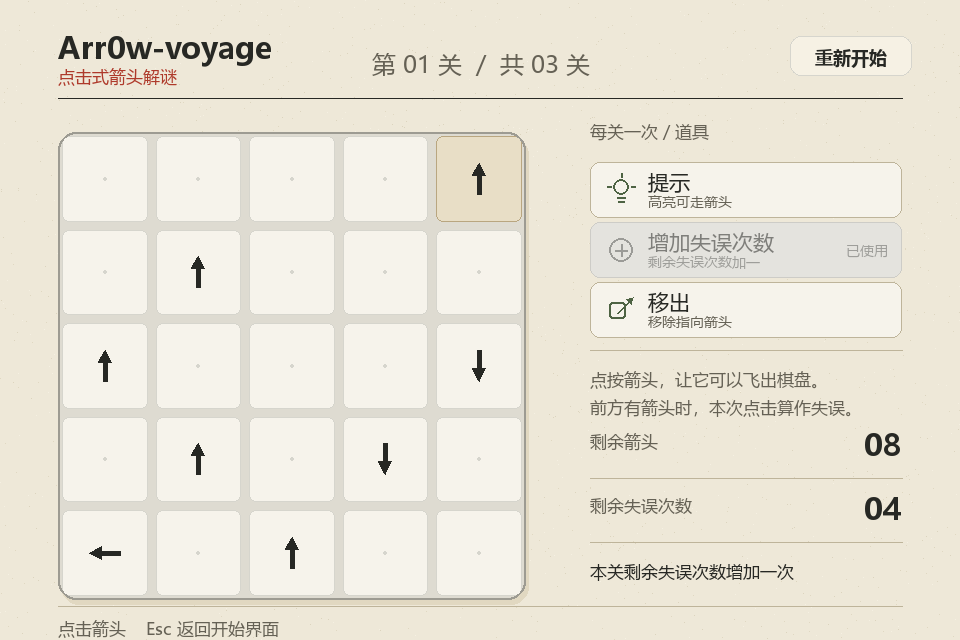
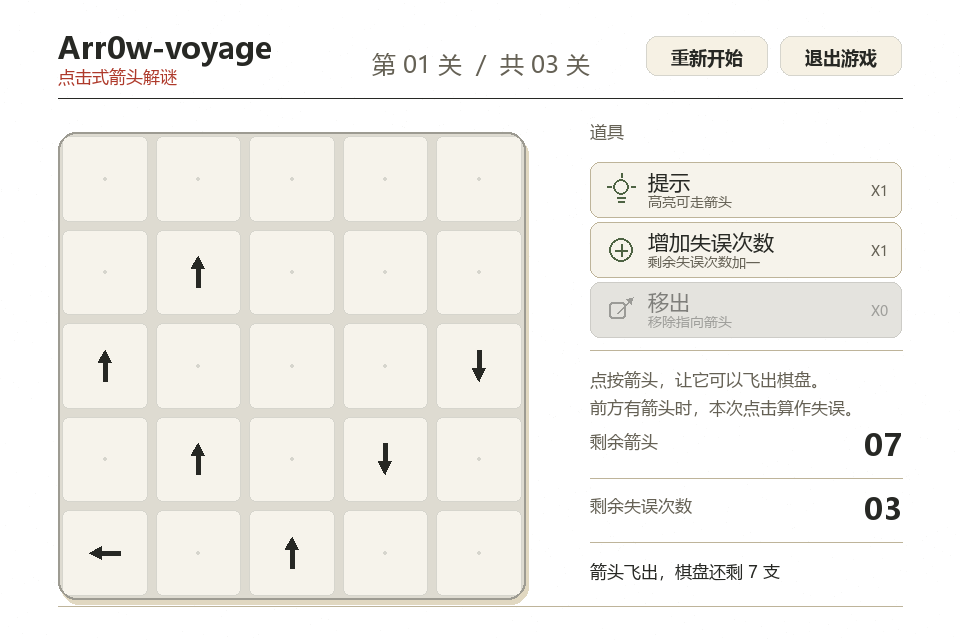
优化完善界面

diff --git a/game.py b/game.py
@@ -78,6 +78,7 @@ class Game:
         self.title_font = load_font(70, bold=True)
         self.heading_font = load_font(30, bold=True)
         self.subtitle_font = load_font(24)
+        self.start_subtitle_font = load_font(36, bold=True)
         self.body_font = load_font(21)
         self.small_font = load_font(17)
         self.tiny_font = load_font(14)
@@ -86,8 +87,19 @@ class Game:
 
         self.start_button = Button(pygame.Rect(112, 450, 210, 58), "开始游戏")
         self.restart_button = Button(
-            pygame.Rect(790, 36, 122, 40),
+            pygame.Rect(646, 36, 122, 40),
             "重新开始",
+            radius=11,
+            normal_fill=PAPER_LIGHT,
+            hover_fill=PAPER_HOVER,
+            normal_text=INK,
+            hover_text=INK,
+            border_color=CELL_BORDER,
+            border_width=1,
+        )
+        self.exit_button = Button(
+            pygame.Rect(780, 36, 122, 40),
+            "退出游戏",
             radius=11,
             normal_fill=PAPER_LIGHT,
             hover_fill=PAPER_HOVER,
@@ -111,6 +123,7 @@ class Game:
         self.feedback_timer = 0.0
         self.hint_cell: tuple[int, int] | None = None
         self.hint_timer = 0.0
+        self.pending_tool: str | None = None
         self.round_finished = False
         self.message = "点击没有被挡住的箭头"
         self.tool_uses = {key: 1 for key in TOOL_KEYS}
@@ -150,6 +163,10 @@ class Game:
 
         if self.restart_button.contains(position):
             self.restart_level()
+            return
+
+        if self.exit_button.contains(position):
+            self.running = False
             return
 
         tool = self._tool_at(position)
@@ -196,6 +213,7 @@ class Game:
         self.feedback_timer = 0.0
         self.hint_cell = None
         self.hint_timer = 0.0
+        self.pending_tool: str | None = None
         self.round_finished = False
         self.message = "点击没有被挡住的箭头"
         self.tool_uses = {key: 1 for key in TOOL_KEYS}
@@ -205,6 +223,12 @@ class Game:
         """处理一次箭头点击，暂以即时消除配合颜色反馈。"""
         direction = self.board[row][col]
         if direction is None or self.round_finished:
+            return
+
+        if self.pending_tool == "remove":
+            self.pending_tool = None
+            self.tool_uses["remove"] = 0
+            self._remove_arrow(row, col)
             return
 
         if can_fly_out(self.board, row, col):
@@ -227,6 +251,7 @@ class Game:
             return
 
         self.board[row][col] = None
+        self.pending_tool = None
         self.feedback_cell = None
         self.hint_cell = None
         remaining = count_remaining_arrows(self.board)
@@ -247,6 +272,9 @@ class Game:
         if self.round_finished:
             self.message = "本关已结束，请重新开始"
             return
+
+        if tool != "remove" and self.pending_tool is not None:
+            self.pending_tool = None
 
         if self.tool_uses[tool] <= 0:
             self.message = "这个道具本关已经用过了"
@@ -277,17 +305,8 @@ class Game:
         self.message = "本关剩余失误次数增加一次"
 
     def _use_remove(self) -> None:
-        if self.hovered_cell is None:
-            self.message = "先把鼠标移到要移出的箭头上"
-            return
-
-        row, col = self.hovered_cell
-        if self.board[row][col] is None:
-            self.message = "请把鼠标移到箭头上"
-            return
-
-        self.tool_uses["remove"] = 0
-        self._remove_arrow(row, col)
+        self.pending_tool = "remove"
+        self.message = "请点击要移出的箭头"
 
     def _cell_at(self, position: tuple[int, int]) -> tuple[int, int] | None:
         if not BOARD_RECT.collidepoint(position):
@@ -329,11 +348,11 @@ class Game:
         pygame.draw.line(self.screen, ACCENT, (84, 82), (84, 544), 3)
         pygame.draw.circle(self.screen, ACCENT, (84, 82), 5)
 
-        title = self.title_font.render("一箭又一箭", True, INK)
-        self.screen.blit(title, (116, 88))
+        title = self.title_font.render("Arr0w-voyage", True, INK)
+        self.screen.blit(title, (116, 68))
 
-        subtitle = self.subtitle_font.render("点击式箭头解谜", True, ACCENT)
-        self.screen.blit(subtitle, (120, 174))
+        subtitle = self.start_subtitle_font.render("一箭又一箭", True, ACCENT)
+        self.screen.blit(subtitle, (120, 160))
 
         line = self.body_font.render(
             "观察箭头方向，找到一条通向棋盘外的路。", True, INK_SOFT
@@ -351,9 +370,6 @@ class Game:
 
         mouse_position = pygame.mouse.get_pos()
         self.start_button.draw(self.screen, self.button_font, mouse_position)
-
-        footer = self.small_font.render("鼠标点击开始    Esc 退出", True, INK_SOFT)
-        self.screen.blit(footer, (120, 548))
 
         self._draw_sample_board()
 
@@ -420,7 +436,9 @@ class Game:
         self.restart_button.draw(
             self.screen, self.small_button_font, mouse_position
         )
-
+        self.exit_button.draw(
+            self.screen, self.small_button_font, mouse_position
+        )
         pygame.draw.line(
             self.screen, INK, (58, HEADER_RULE_Y), (902, HEADER_RULE_Y), 1
         )
@@ -431,10 +449,6 @@ class Game:
         self._draw_board()
         self._draw_sidebar()
 
-        footer = self.small_font.render(
-            "点击箭头    Esc 返回开始界面", True, INK_SOFT
-        )
-        self.screen.blit(footer, (58, 617))
 
     def _draw_board(self) -> None:
         pygame.draw.rect(
@@ -463,6 +477,10 @@ class Game:
                 if direction is not None and self.hovered_cell == (row, col):
                     fill_color = PAPER_HOVER
                     border_color = CELL_HOVER_BORDER
+
+                if direction is not None and self.pending_tool == "remove":
+                    fill_color = CELL_HINT
+                    border_color = MOSS
 
                 if direction is not None and self.hint_cell == (row, col):
                     fill_color = CELL_HINT
@@ -516,7 +534,7 @@ class Game:
 
     def _draw_sidebar(self) -> None:
         left = 590
-        tools_title = self.small_font.render("每关一次 / 道具", True, INK_SOFT)
+        tools_title = self.small_font.render("道具", True, INK_SOFT)
         self.screen.blit(tools_title, (left, 120))
 
         mouse_position = pygame.mouse.get_pos()
@@ -592,12 +610,12 @@ class Game:
         )
         self.screen.blit(description, description_rect)
 
-        if used:
-            status = self.tiny_font.render("已使用", True, description_color)
-            status_rect = status.get_rect(
-                midright=(rect.right - 14, rect.centery)
-            )
-            self.screen.blit(status, status_rect)
+        status_text = f"X{self.tool_uses[tool]}"
+        status = self.tiny_font.render(status_text, True, description_color)
+        status_rect = status.get_rect(
+            midright=(rect.right - 14, rect.centery)
+        )
+        self.screen.blit(status, status_rect)
     def _draw_status_row(self, label: str, value: str, top: int) -> None:
         left = 590
         label_text = self.small_font.render(label, True, INK_SOFT)

diff --git a/ui.py b/ui.py
@@ -10,7 +10,7 @@ from pathlib import Path
 import pygame
 
 
-PAPER = (238, 232, 216)
+PAPER = (255, 255, 255)
 PAPER_LIGHT = (246, 241, 228)
 PAPER_DEEP = (225, 216, 193)
 PAPER_HOVER = (232, 222, 198)
@@ -115,7 +115,7 @@ def create_paper_background(size: tuple[int, int]) -> pygame.Surface:
     for _ in range(width * height // 300):
         x = rng.randrange(width)
         y = rng.randrange(height)
-        tone = rng.choice(((224, 216, 194), (245, 240, 226), (220, 212, 190)))
+        tone = rng.choice(((250, 250, 249), (255, 255, 255), (247, 247, 246)))
         surface.set_at((x, y), tone)
 
     return surface

diff --git a/docs/test-report.md b/docs/test-report.md
@@ -20,13 +20,17 @@
 | T10 | 清空最后一关 | 显示最终通关结果 | 待测试 | 待测试 |
 | U01 | 启动程序 | 正常显示开始界面 | 无界面冒烟测试通过 | 是 |
 | U02 | 点击开始游戏按钮 | 进入游戏界面状态 | 状态切换测试通过 | 是 |
-| U03 | 进入游戏界面 | 显示 HUD、棋盘、箭头和重新开始按钮 | 冒烟测试通过 | 是 |
+| U03 | 进入游戏界面 | 显示 HUD、棋盘、箭头和顶部操作按钮 | 冒烟测试通过 | 是 |
 | U04 | 点击无阻挡箭头 | 箭头消除且失误不变 | 逻辑测试通过 | 是 |
 | U05 | 重新开始当前关卡 | 棋盘恢复到初始状态 | 冒烟测试通过 | 是 |
 | U06 | 游戏界面使用圆角棋盘 | 外框、格子和按钮均为轻微圆角 | 冒烟测试通过 | 是 |
 | U07 | 使用三个一次性道具 | 提示、增加失误次数、移出均生效 | 冒烟测试通过 | 是 |
-| U08 | 道具用后状态 | 整项变灰并显示“已使用”，不再响应点击 | 冒烟测试通过 | 是 |
+| U08 | 道具用后状态 | 整项变灰，剩余次数显示为 X0 | 冒烟测试通过 | 是 |
 | U09 | 使用增加失误次数后重新开始 | 默认失误上限恢复为 3 | 冒烟测试通过 | 是 |
+| U10 | 使用移出道具 | 先点移出，再点箭头，目标箭头被移除 | 冒烟测试通过 | 是 |
+| U11 | 点击退出游戏 | 游戏窗口正常退出 | 冒烟测试通过 | 是 |
+| U12 | 查看道具余量 | 未使用显示 X1，使用后显示 X0 | 冒烟测试通过 | 是 |
+| U13 | 开始界面标题 | 主标题 Arr0w-voyage，副标题一箭又一箭 | 冒烟测试通过 | 是 |
 
 ## 自动化测试记录
 

diff --git a/docs/aigc-log.md b/docs/aigc-log.md
@@ -124,3 +124,25 @@
 - 实际效果：自动测试 `11 passed`；增加失误次数、重新开始重置、提示和移出道具冒烟测试通过
 - 验证结果：已重新生成游戏界面和道具已使用状态预览图
 - 对应文件：`game.py`、`ui.py`、`README.md`
+
+## 记录 7：界面收尾调整与移出道具修复
+
+- 日期：2026-09-14
+- 子任务：根据反馈调整开始界面、顶部按钮、道具余量和背景颜色，并修复移出道具
+- 使用的 AIGC 技术：Codex
+- 我提出的要求：
+  - 开始界面删除“鼠标点击开始 / Esc 退出”
+  - 游戏界面删除底部 Esc 提示，重新开始按钮左移，右侧增加退出游戏按钮
+  - “每关一次 / 道具”改为“道具”，最右侧用 X1 表示剩余次数
+  - 背景改为白色
+  - “移出”道具要能够正常使用
+  - 开始界面主标题改为 Arr0w-voyage，“一箭又一箭”作为更大的副标题
+- AI 实现或提供了什么：
+  - 将移出道具改为“先点道具，再点箭头”的两步操作，避免丢失鼠标悬停目标
+  - 增加右上角退出游戏按钮
+  - 道具剩余次数改为 X1，使用后变灰并显示 X0
+  - 主背景改为白色，保留极轻的纸面颗粒
+  - 开始界面主标题上移，中文副标题使用更大的粗体字
+- 实际效果：自动测试 `11 passed`；移出两步操作、退出按钮、白色背景和标题布局冒烟测试通过
+- 验证结果：已重新生成三张界面预览图
+- 对应文件：`game.py`、`ui.py`、`README.md`、`docs/test-report.md`

diff --git a/README.md b/README.md
@@ -34,7 +34,8 @@ python -m venv .venv
 - 鼠标左键：点击箭头，判断它能否飞出棋盘
 - 提示：每关一次，高亮一个可直接飞出的箭头
 - 增加失误次数：每关一次，剩余失误次数加一
-- 移出：每关一次，移除鼠标指向的箭头
+- 移出：每关一次，先点击“移出”，再点击要移除的箭头
+- 退出游戏：点击右上角“退出游戏”按钮
 - Esc：返回开始界面；在开始界面再次按下可退出游戏
 
 ## 项目结构
